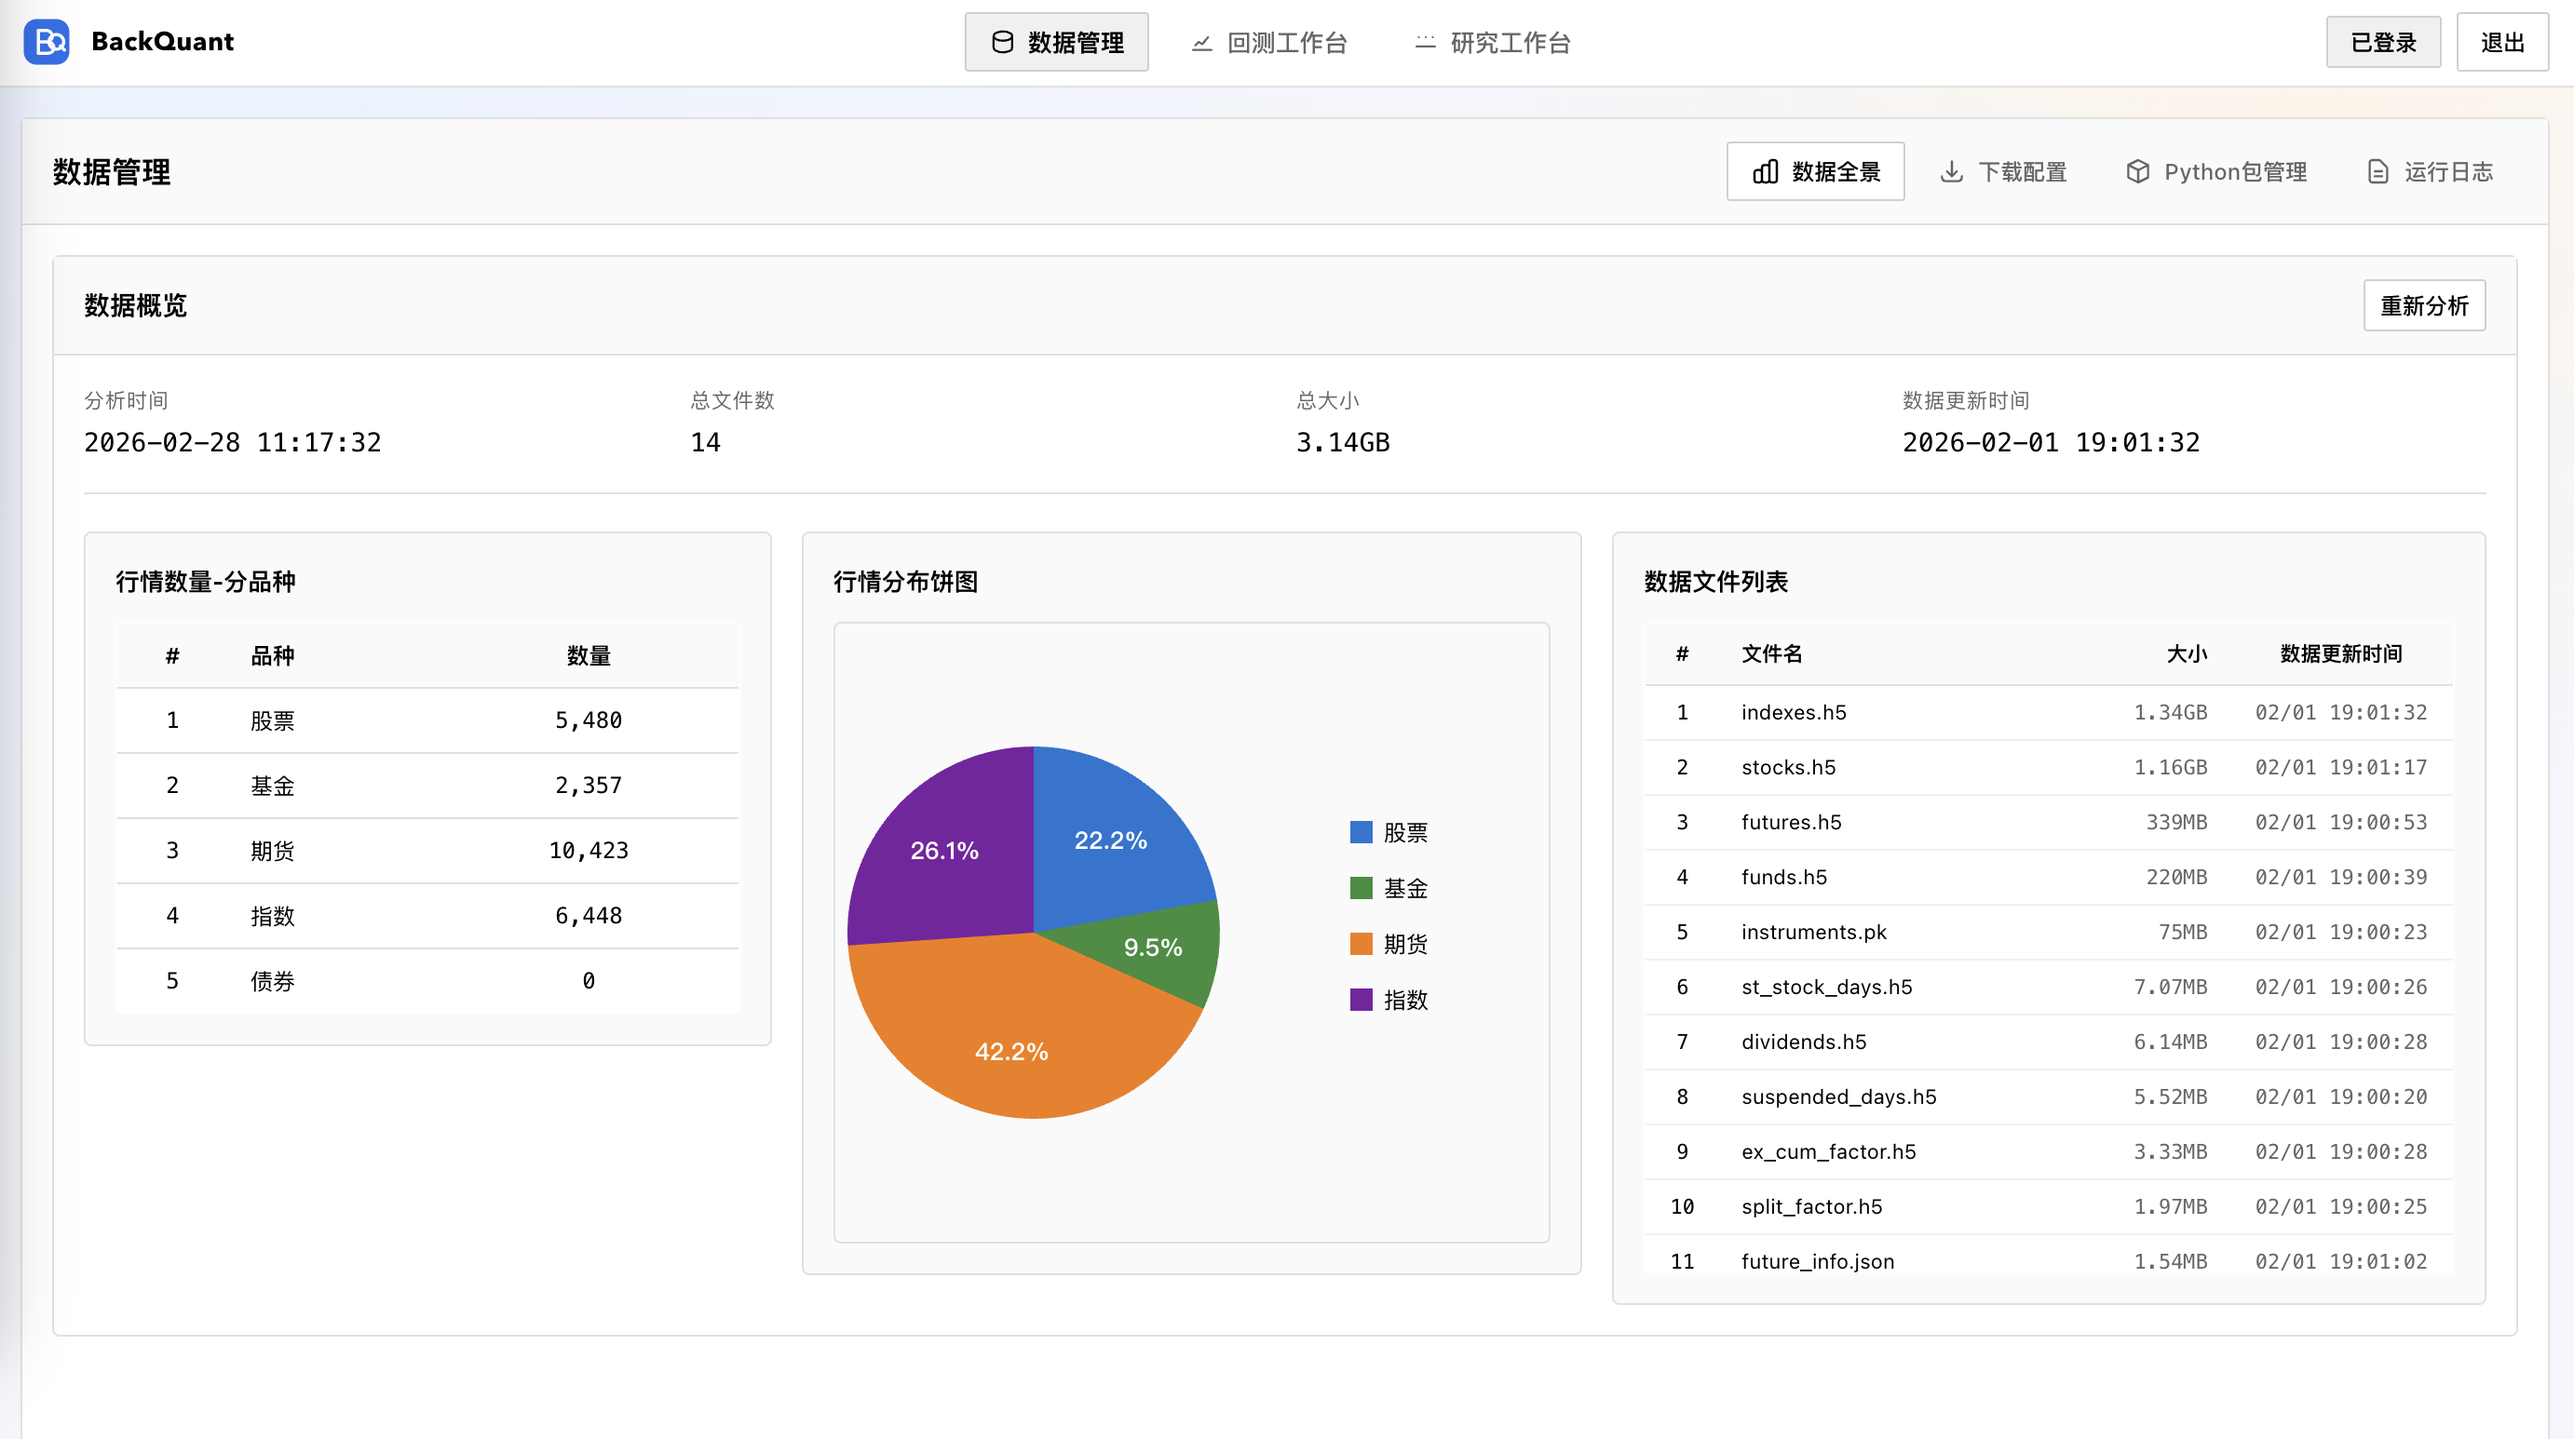
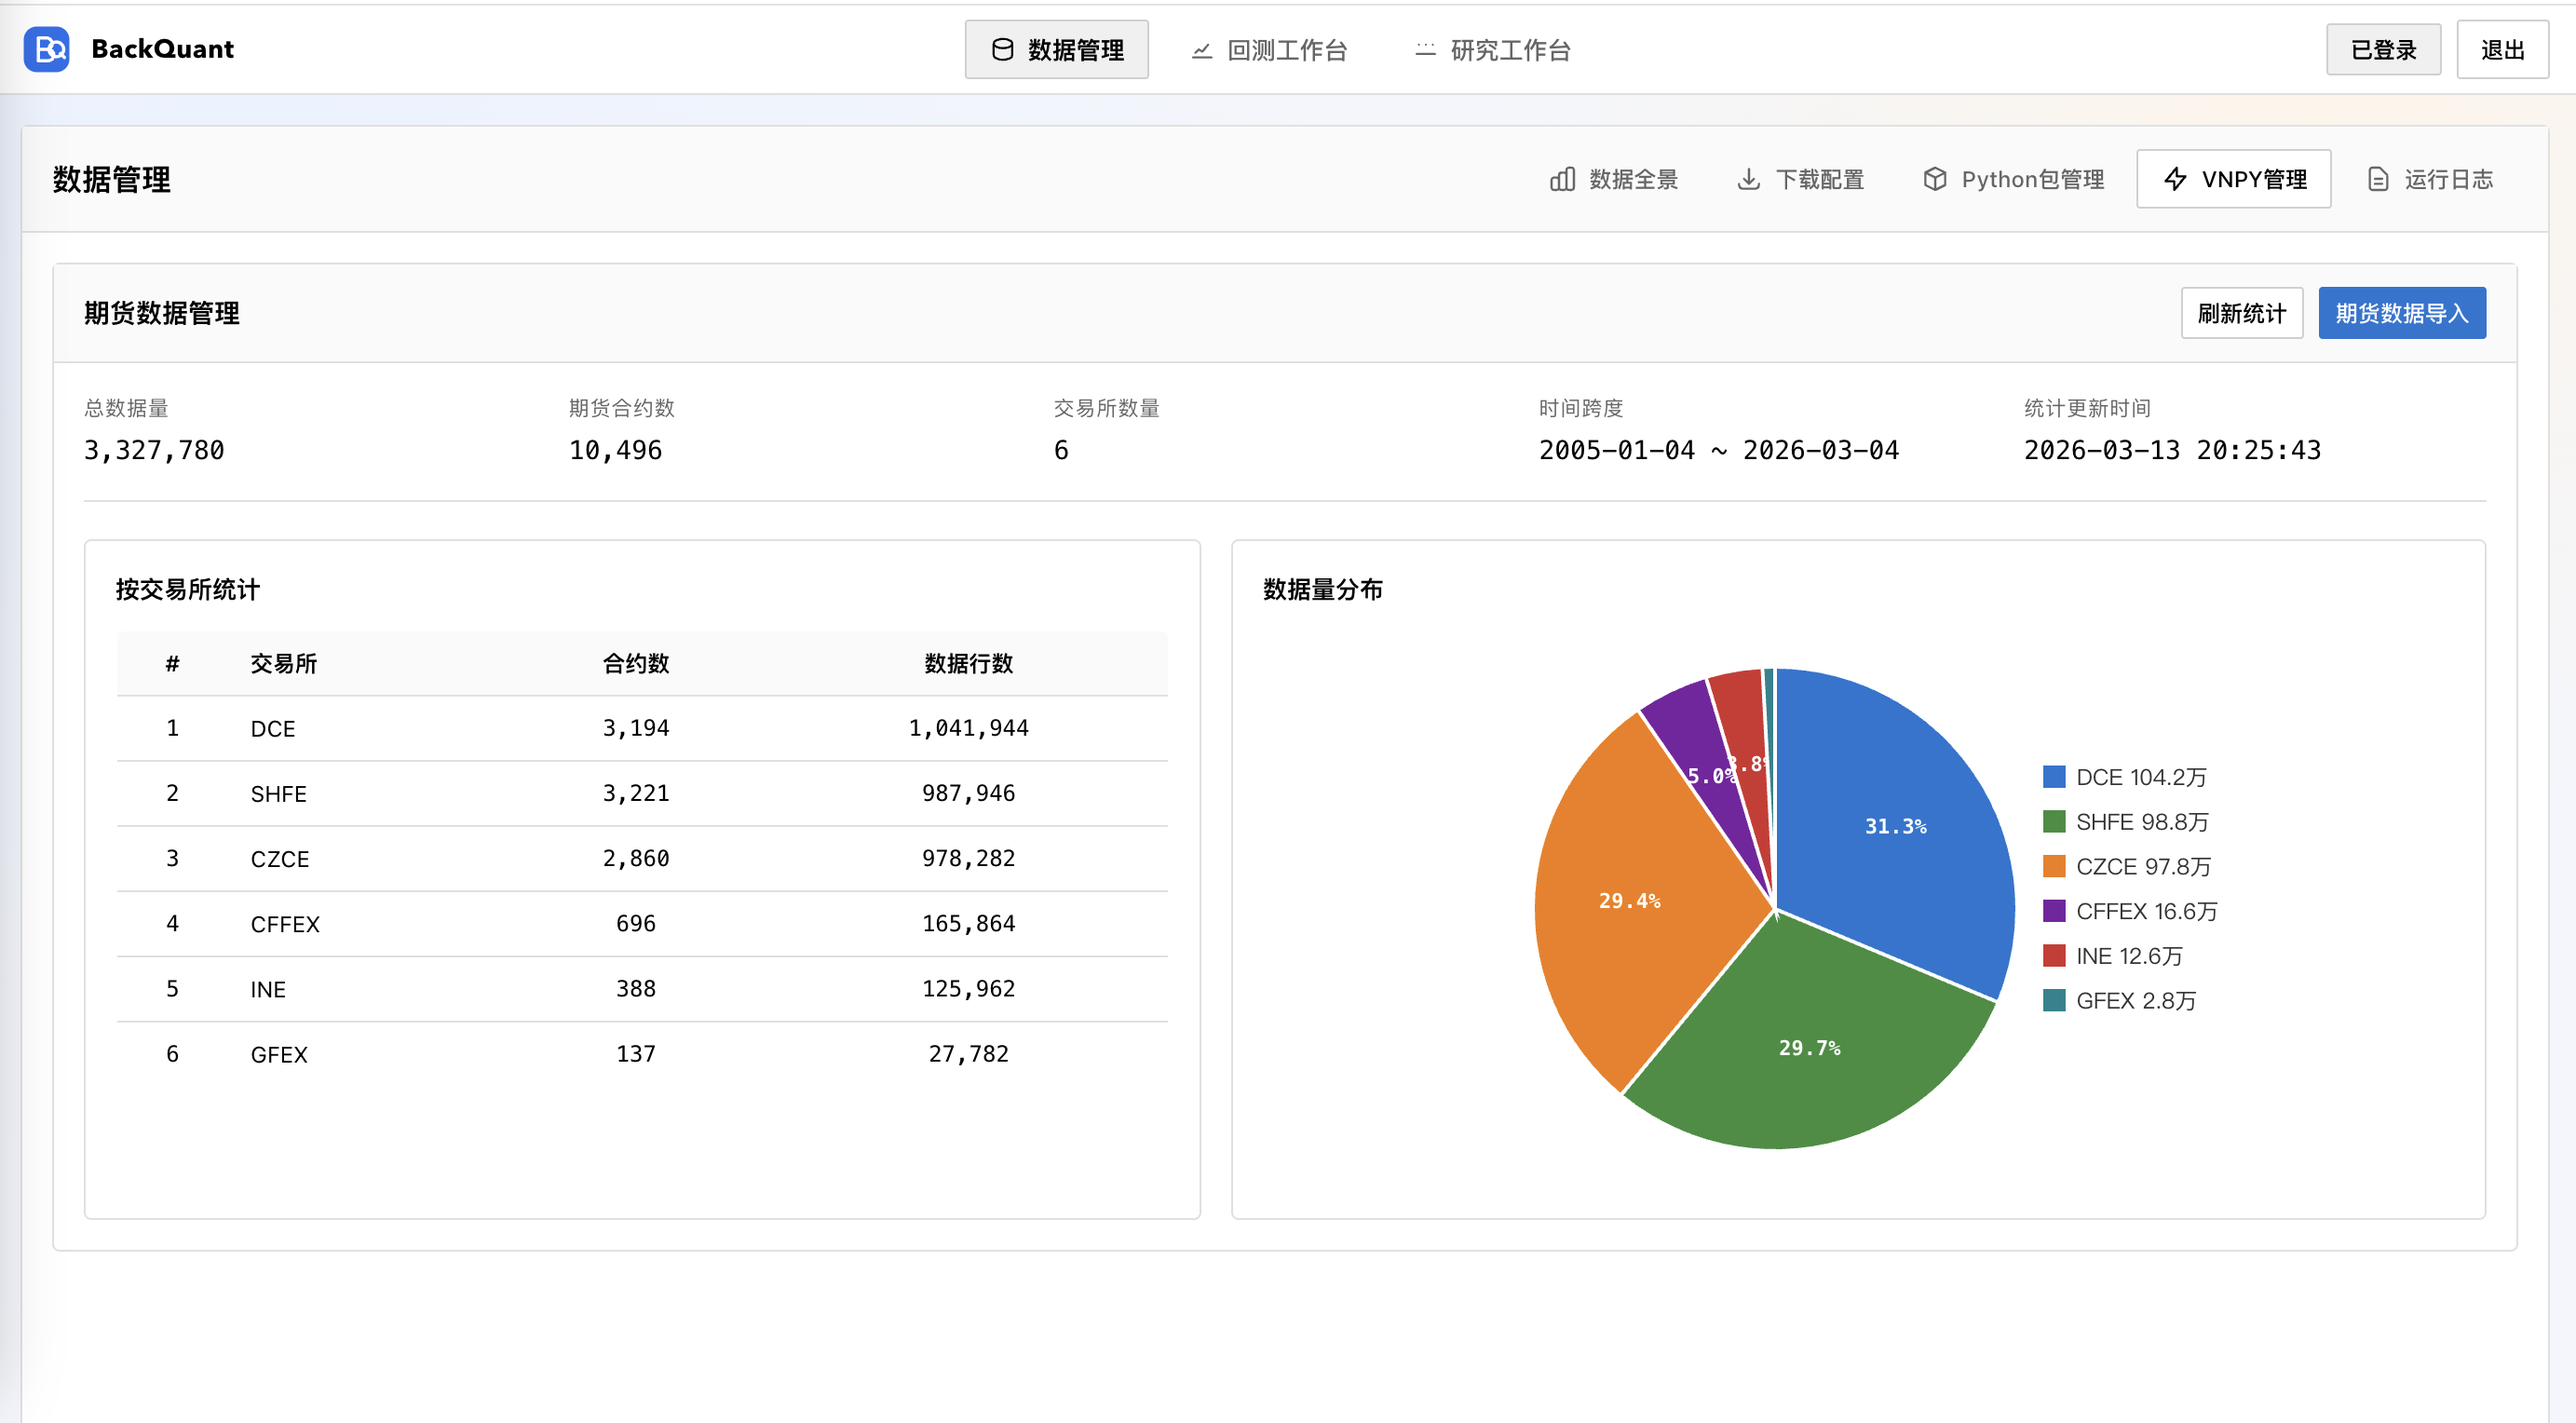
docs: 更新截图和README，展示VnPy期货回测功能

diff --git a/README.md b/README.md
@@ -5,6 +5,7 @@
 <u>**完全本地化部署，策略和数据本地运行，不依赖第三方平台，既保障隐私安全，又具备高度可定制性。**</u>
 
 本仓库包含后端（Flask + RQAlpha）与前端（Vue 3）两部分，并提供 Research 工作台（Jupyter Lab）集成能力。
+支持 **RQAlpha 股票日线回测** 与 **VnPy 期货 CTA 策略可视化回测**，期货数据从 rqalpha bundle 一键导入 MariaDB。
 **推荐使用 Docker 安装部署**，一次性包含 Flask、Jupyter、Nginx 与前端构建产物，目标是镜像拉下来就能跑。
 
 ## 一、Docker 安装与部署
@@ -34,6 +35,7 @@ docker compose up --build -d
 ### RQAlpha 与日线数据
 
 - Docker 镜像已内置 RQAlpha（`rqalpha==6.1.2`）。
+- 镜像已预装 VnPy 4.3.0（含 vnpy_ctastrategy、vnpy_mysql 等），支持期货 CTA 策略回测。
 - 镜像已预装常用量化库：`numpy`、`pandas`、`statsmodels`、`scikit-learn`
 - 内置一个默认策略 `demo`，可直接在策略列表中运行。
 - 日线数据按月更新：容器启动时自动写入 crontab（`/etc/cron.d/rqalpha-bundle`，默认每月 1 日 03:00 运行更新任务）。
@@ -53,6 +55,10 @@ docker compose up --build -d
 ![Screenshot 0](images/screen0.png)
 ![Screenshot 1](images/screen1.png)
 ![Screenshot 3](images/screen3.png)
+
+- screen0：回测工作台 — 策略回测结果与收益曲线
+- screen1：数据管理 — VNPY 期货数据管理（按交易所统计、饼图分布）
+- screen3：研究工作台 — Jupyter Lab 中编写 VnPy CTA 期货策略
 
 ## 二、配置说明
 
